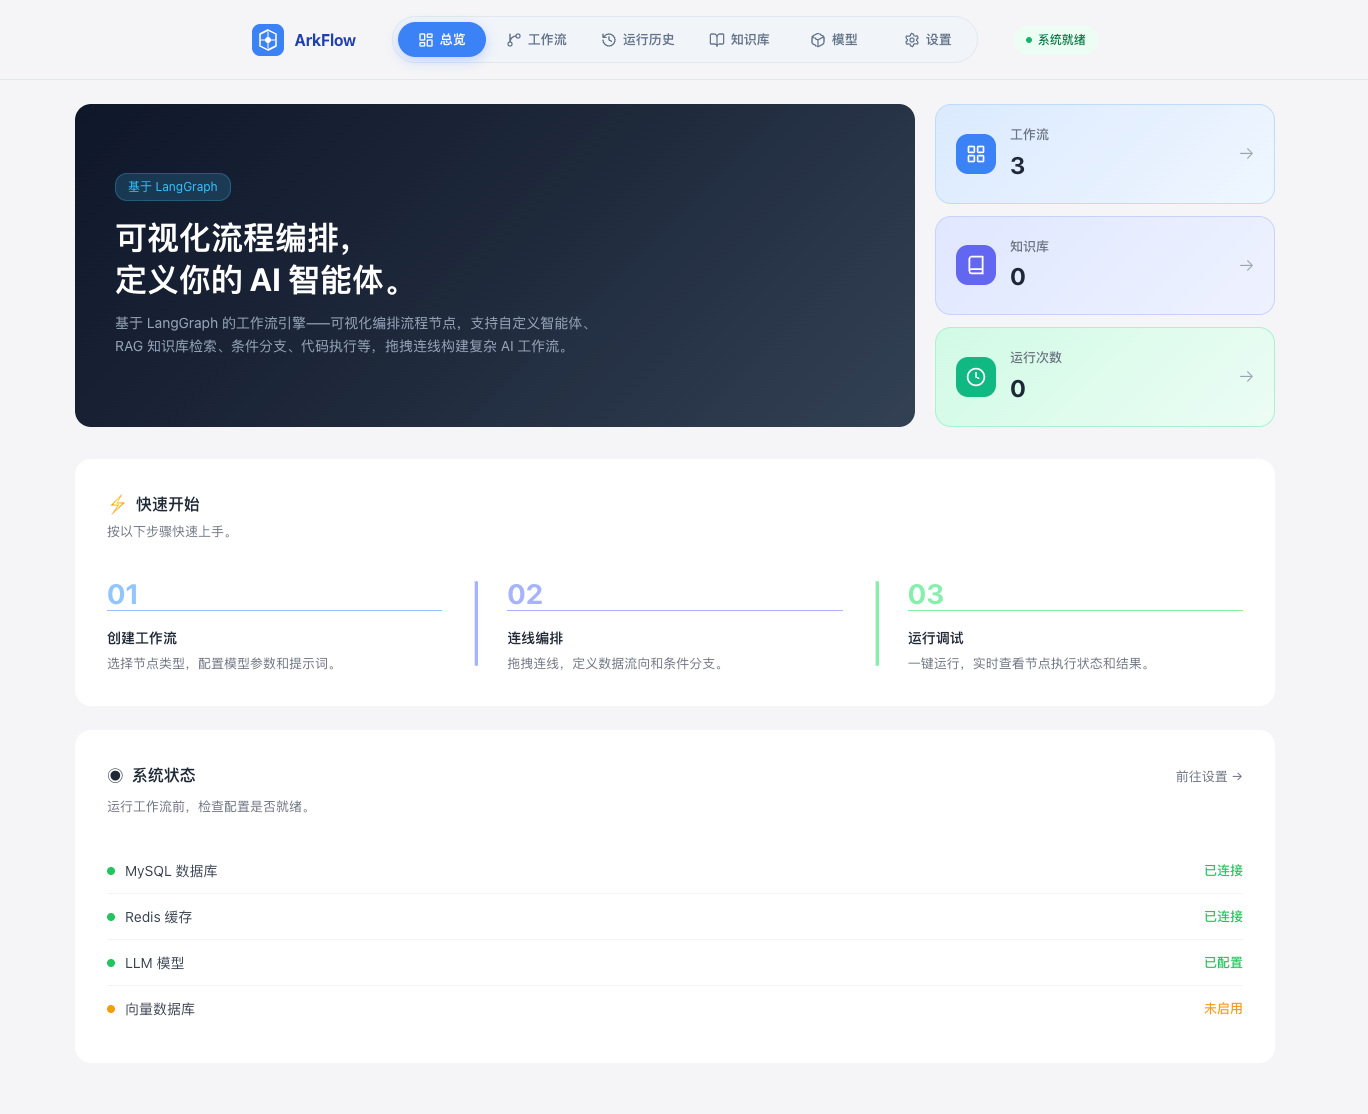
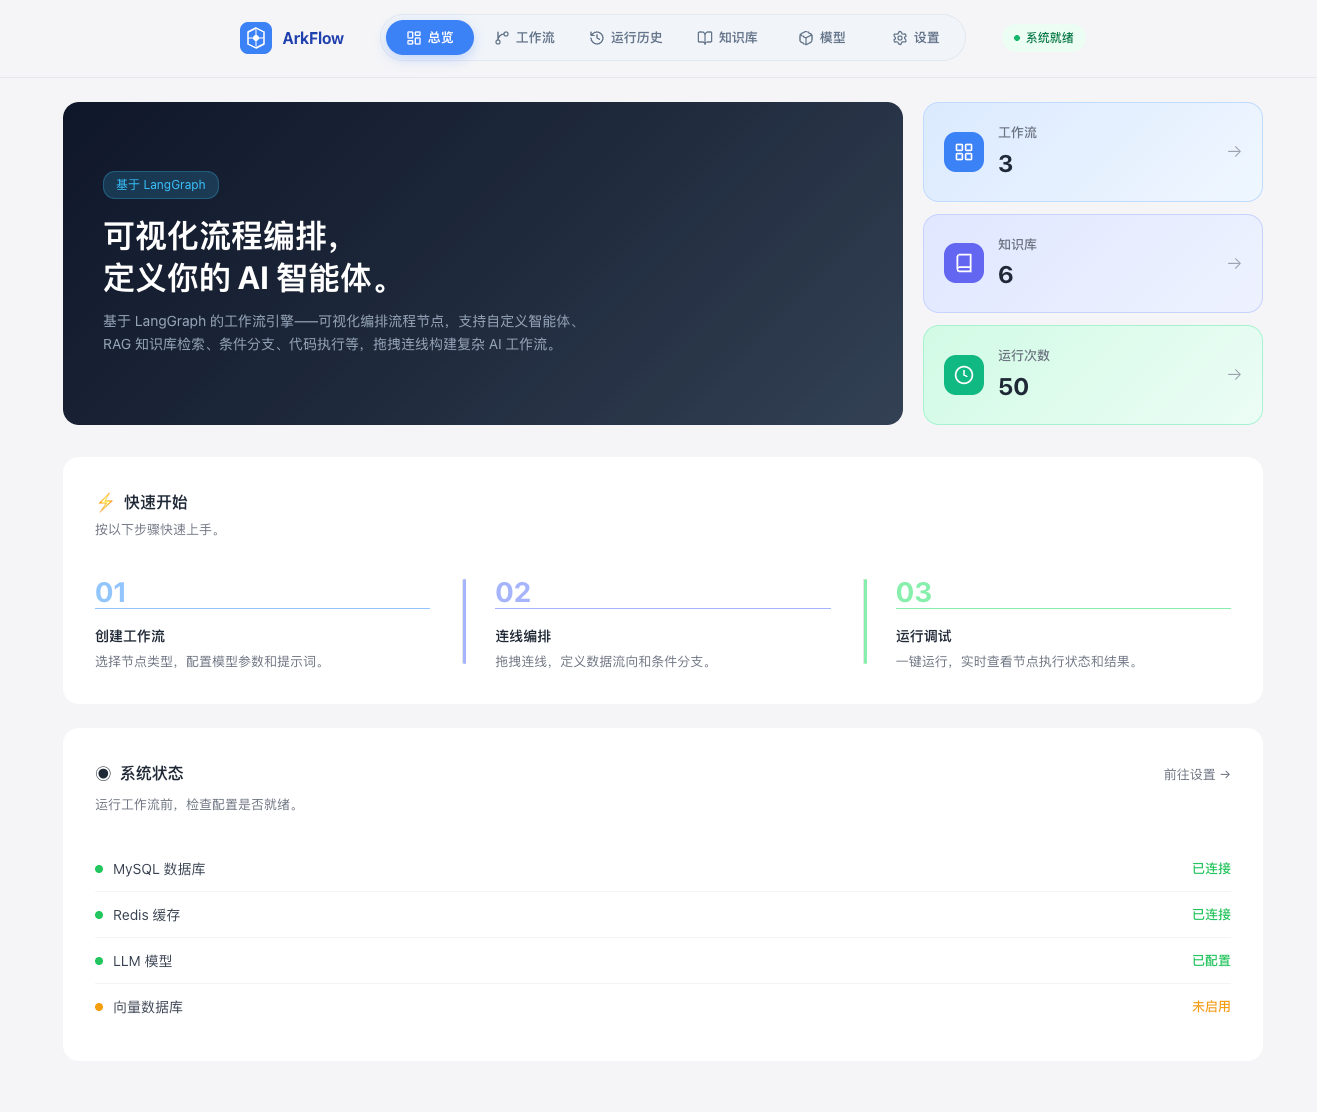
perf:完善README.md 文档2

diff --git a/README.md b/README.md
@@ -16,24 +16,17 @@
 
 ## 截图预览
 
-<table>
-  <tr>
-    <td align="center"><b>工作流编排</b></td>
-    <td align="center"><b>运行监控</b></td>
-  </tr>
-  <tr>
-    <td><img src="docs/pictures/overall.png" alt="工作流编排" width="480"/></td>
-    <td><img src="docs/pictures/run.png" alt="运行监控" width="480"/></td>
-  </tr>
-  <tr>
-    <td align="center"><b>知识库管理</b></td>
-    <td align="center"><b>系统设置</b></td>
-  </tr>
-  <tr>
-    <td><img src="docs/pictures/knowledge.png" alt="知识库管理" width="480"/></td>
-    <td><img src="docs/pictures/settings.png" alt="系统设置" width="480"/></td>
-  </tr>
-</table>
+### 工作流编排
+<img src="docs/pictures/overall.png" alt="工作流编排" width="800"/>
+
+### 运行监控
+<img src="docs/pictures/run.png" alt="运行监控" width="800"/>
+
+### 知识库管理
+<img src="docs/pictures/knowledge.png" alt="知识库管理" width="800"/>
+
+### 系统设置
+<img src="docs/pictures/settings.png" alt="系统设置" width="800"/>
 
 ## 功能特性
 
